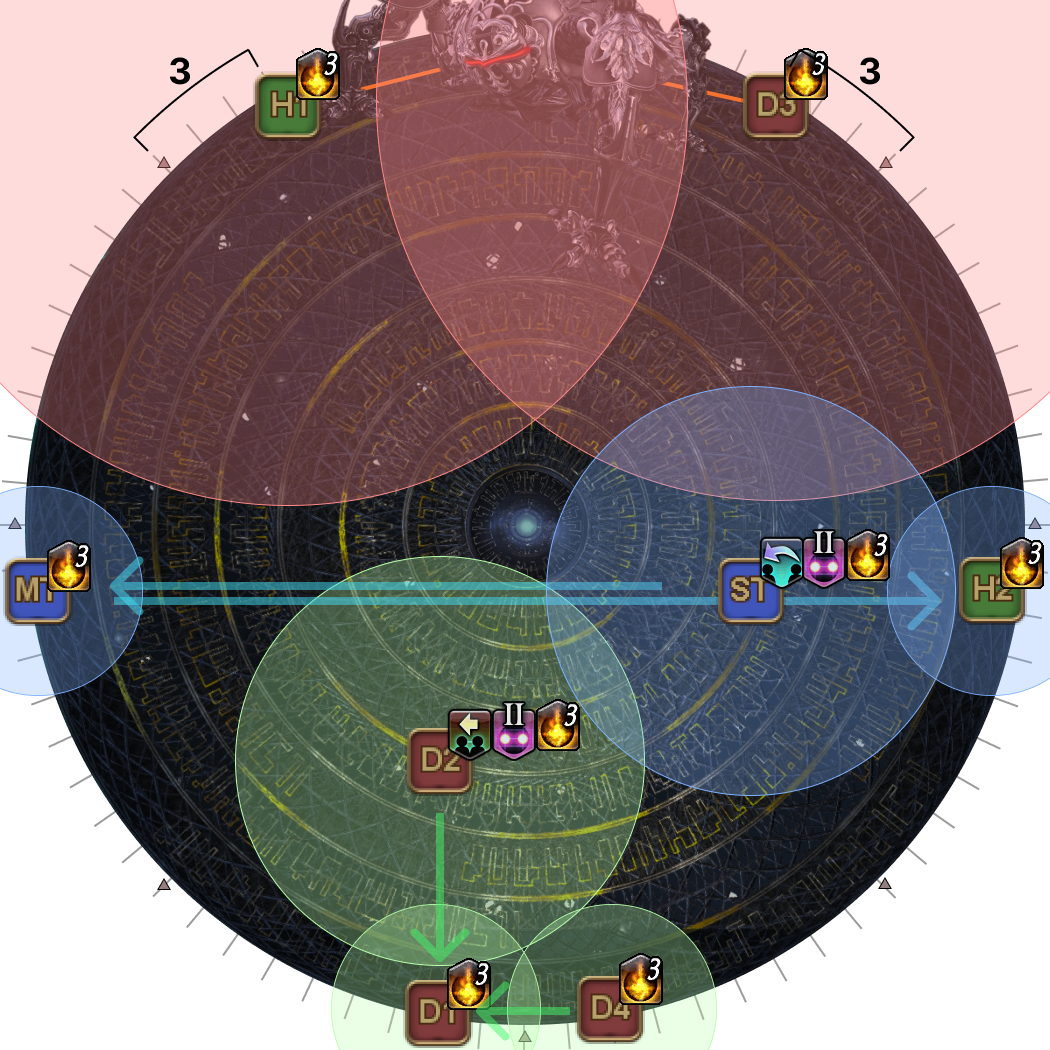
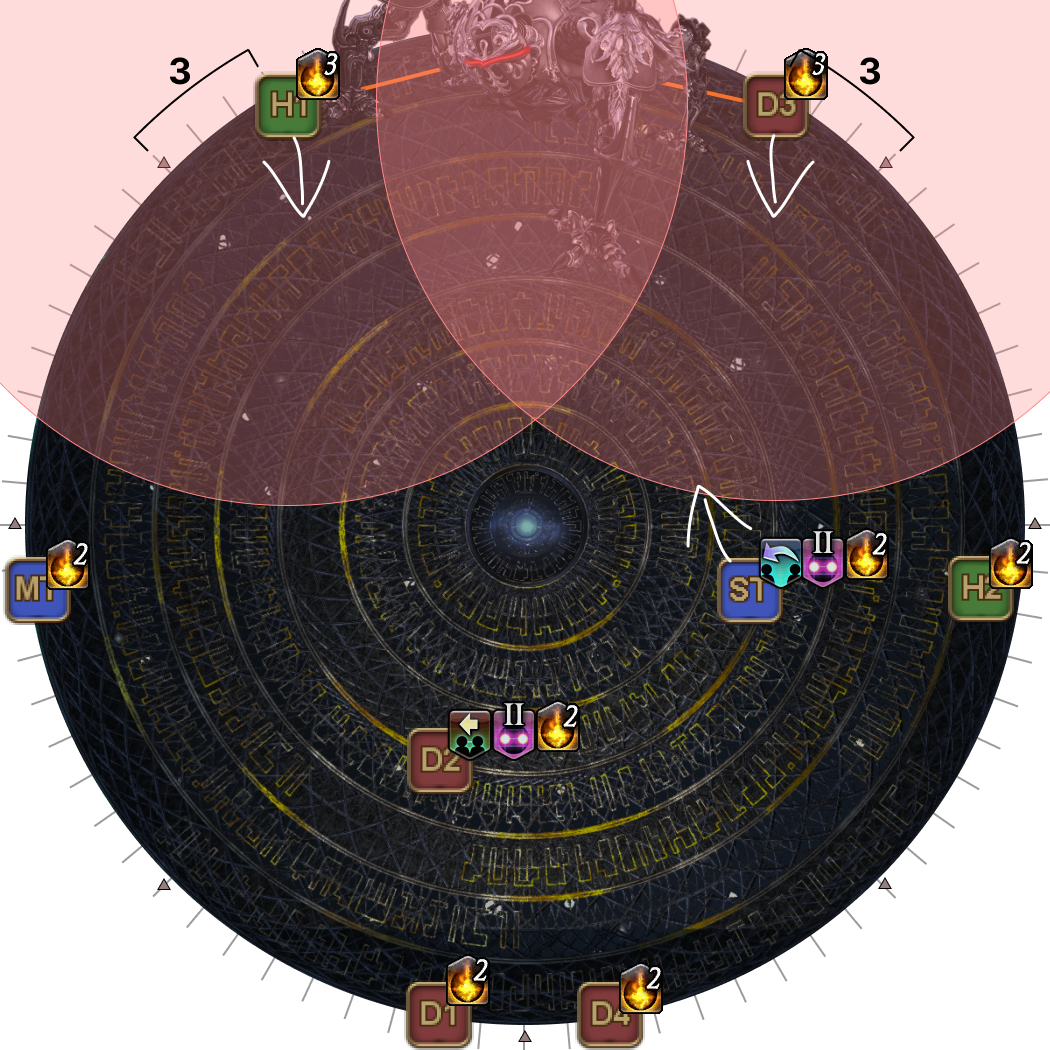
Split up tethers and Hello, World

Changed region(s): [[0.0, 0.3657, 1.0, 1.0], [0.2438, 0.1524, 0.3352, 0.2133], [0.701, 0.1524, 0.7619, 0.2133]]

diff --git a/ultimates/top/en/05c_run_dynamis_omega.md b/ultimates/top/en/05c_run_dynamis_omega.md
@@ -72,7 +72,7 @@ the first safe spot *(determine whether you're going to move cw or ccw, and whet
 <table>
   <tr>
     <td width="50%">
-      <p><b>1.</b> Omega Reconfigured will spawn in the center.</p>
+      <p><b>1.</b> Final Omega will spawn in the center.</p>
       <p>An Omega-M/F pair will spawn at opposite intercardinal positions,
       again with a random Sword/Shield and Staff/Blade-Legs combo.</p>
       <p><em>(In this example, the safe spot will be near the middle, either
@@ -132,7 +132,7 @@ Nukemaru has compiled a collection of clips which may help:
   <tr>
     <td width="50%">
       <p><b>5.</b> Omega will then present a single monitor set, to be resolved
-      together with the first set of Hello, World debuffs.</p>
+      together with the first set of <em>Hello, World</em> debuffs.</p>
       <p>Omega's monitors will be taken by two players with two Dynamis stacks.
       However:</p>
       <ul>
@@ -161,13 +161,13 @@ Nukemaru has compiled a collection of clips which may help:
   </tr>
   <tr>
     <td>
-      <p><b>6.</b> Hello, World debuffs resolve.</p>
+      <p><b>6.</b> <em>Hello, World</em> debuffs resolve.</p>
       <p>Done correctly, there should be:</p>
       <ul>
         <li><p>Two players with three Dynamis stacks.</p>
           <ul>
-            <li>These players should <em>not</em> have the second set of Hello,
-            World debuffs.</li>
+            <li>These players should <em>not</em> have the second set of 
+            <em>Hello, World</em> debuffs.</li>
           </ul>
         </li>
         <li>The other six players should all have two Dynamis stacks.</li>
@@ -190,10 +190,10 @@ Nukemaru has compiled a collection of clips which may help:
         <li><b>Players with 3 stacks:</b> Take the tethers and stand beside
         Omega.</li>
         <li>
-          <p><b>Everybody else:</b> Resolve Hello, World debuffs.</p>
-          <p>Again, the player with Hello, Near World can move away from the
-          player with Hello, Distant World to ensure Near World jumps to the
-          correct players.</p>
+          <p><b>Everybody else:</b> Resolve <em>Hello, World</em> debuffs.</p>
+          <p>Again, the player with <em>Hello, Near World</em> can move away
+          from the player with <em>Hello, Distant World</em> to ensure <em>Near
+          World</em> jumps to the correct players.</p>
         </li>
       </ul>
     </td>
@@ -201,15 +201,24 @@ Nukemaru has compiled a collection of clips which may help:
   </tr>
   <tr>
     <td>
-      <p><b>8.</b> Hello, World debuffs resolve.</p>
-      <p>All players should now have three Dynamis stacks each.</p>
+      <p><b>8.</b> The two tethers resolve.</p>
+      <p>The players that had the tethers and the <em>Hello, Distant World</em>
+      player can adjust a little bit after the tethers resolve just to be sure
+      the <em>Hello, Distant World</em> debuffs resolve correctly.</p>
     </td>
     <td><img src="../images/05_run_dynamis/run_dynamis_omega_08.jpg"></td>
   </tr>
+  <tr>
+    <td>
+      <p><b>9.</b> Shortly after, the <em>Hello, World</em> debuffs resolve.</p>
+      <p>All players should now have three Dynamis stacks each.</p>
+    </td>
+    <td><img src="../images/05_run_dynamis/run_dynamis_omega_09.jpg"></td>
+  </tr>
 </table>
 
-Omega-F then does one more set of Solar Ray tankbusters before casting Blind
-Faith.
+Omega-F then does one more set of *Solar Ray* tankbusters before casting
+*Blind Faith*.
 
 Like Blue Screen, Omega-F **must** be brought to under 20% HP by the end of
-Blind Faith's cast to proceed onto the final phase of the fight.
+*Blind Faith*'s cast to proceed onto the final phase of the fight.
